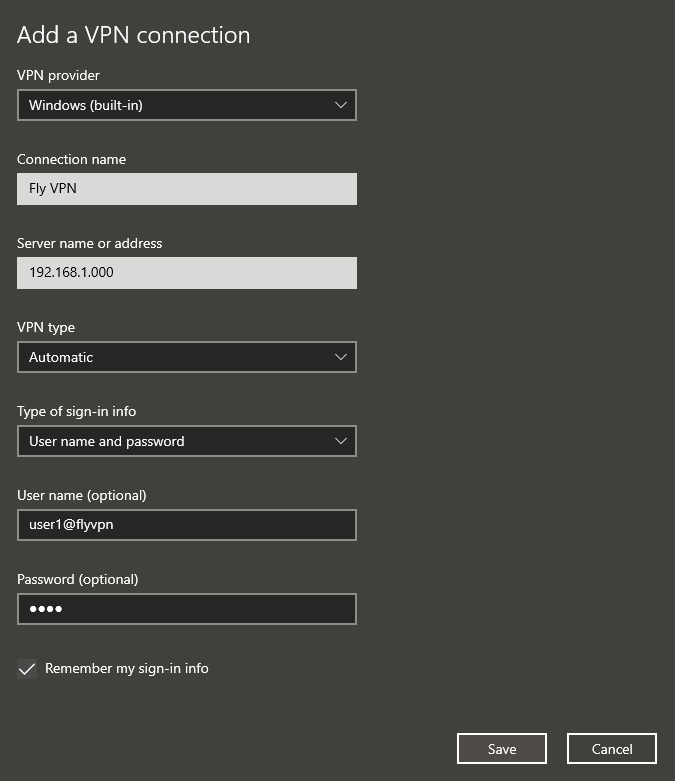
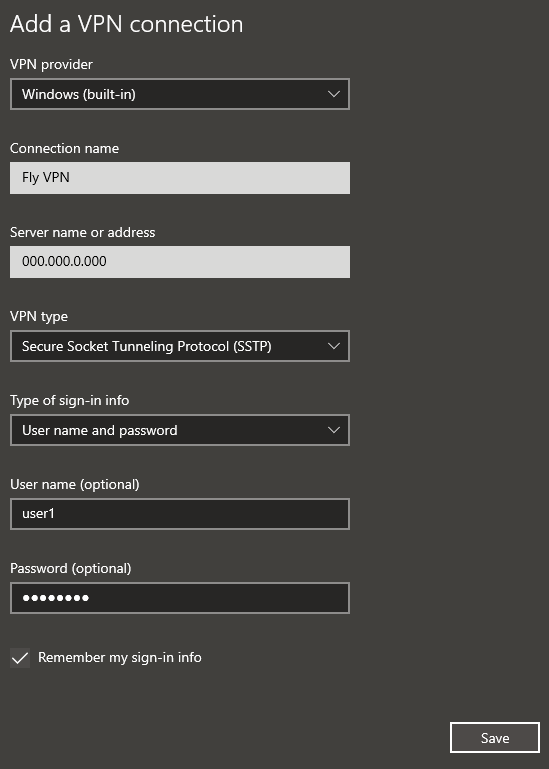
final commit

diff --git a/README.md b/README.md
@@ -8,7 +8,26 @@ default_: report
 ---
 ## A SoftEther SSTP VPN Server, hosted by Fly.io
 
-This is a scale-to-zero VPN server that Windows' built-in VPN client can connect to by IP address + username + password.
+### Notice
+
+This project is cancelled because the SoftEther VPN doesn't work within the Fly.io host environment.
+The VPN works correctly when hosted by my laptop; my desktop is able to connect through the vpn when using `nix run .#start`.
+However, when the container is hosted by Fly.io through `nix run .#deploy`, while some connections work, many internet functions fail to work through the VPN.
+Some computers refuse to connect to the deployed Fly.io server at all.
+The container reports the following warnings while running:
+
+```txt
+Warning: Extension connmark revision 0 not supported, missing kernel module?
+iptables: No chain/target/match by that name.
+```
+
+These might imply that the Fly.io server doesn't offer the right privileges to host a VPN in the way Softether does; or, it doesn't have the right kernel support.
+Either way, it's enough to tell me that Softether SSTP is not a match for Fly.io.
+
+This is (supposed to be) a scale-to-zero VPN server that Windows' built-in VPN client can connect to by IP address + username + password.
+It works when hosted in a Podman or Docker container in any general purpose linux server.
+
+**This project is abandoned. If you are looking for a way to play LAN games with your friends, I recommend using [Radmin VPN](https://www.radmin-vpn.com/).**
 
 Questions? [Read the FAQ](#faq).
 
@@ -29,15 +48,15 @@ Now you are ready to configure the server!
 
 #### Configure Server
 
-The VPN server must be configured by a secret file named `.env`. Modify the `.env` file in the root directory of this repository, and declare the following settings:
+The VPN server must be configured by a secret file named `.env`. Create the file named `.env` in the root directory of this repository, and declare the following settings:
 
 `.env`
 
 ```sh
 SOFTETHER_PASS="password"
-USER_PASS_PAIRS="user1:password user2:password user3:password"
-HUB_NAME="flyvpn"
 HUB_PASS="password"
+IPSEC_PSK="notsecret"
+USER_PASS_PAIRS="user1:password user2:password user3:password"
 ```
 
 Now you are ready to deploy the server!
@@ -47,7 +66,6 @@ Now you are ready to deploy the server!
 - [Make a Fly.io account](https://fly.io/dashboard). Link your payment method in the account.
 - Run `nix develop` to open a shell with access to development tools (like `flyctl`).
 - Run `flyctl auth login`
-- Run `touch .env` to make file named `.env`
 - Determine your `<unique_app_name>`.
 - Set `app = '<unique_app_name>'` in `fly.toml`.
 - Add line `FLY_APP_NAME="<unique_app_name>"` to `.env`.
@@ -59,18 +77,20 @@ Now you are ready to deploy the server!
 
 #### Update a Client Certificate (Windows 10)
 
-- Start the server.
-- Find the location of the `.crt` file provided by the server CLI on startup. It is at `/var/lib/softether/vpnserver/cn.txt` by default.
+- Run `nix develop` to open a shell with access to development tools (like `flyctl`).
+- Run `flyctl logs`.
+- Start the server init script.
+- Copy the certificate text from `/usr/vpnserver/store/server.crt` into a file `server.crt`.
 - Download the `.crt` file to the client's Windows 10 computer.
 - Double click the `.crt` file to open it with Crypto Shell Extensions.
 - Click `Install Certificate...`.
 - Select `Local Machine`.
 - Click `Next`.
-- Click `Yes`.
+- Click `Yes` to give administrator privileges.
 - Select `Place all certificates in the following store`.
 - Click `Browse...`.
 - Select `Trusted Root Certification Authorities`.
-- Click `OK` to give Administrator Privileges.
+- Click `OK`.
 - Click `Next`.
 - Click `Finish`.
 
@@ -83,9 +103,10 @@ Now you are ready to deploy the server!
   ![Screenshot of an example VPN connection.](docs/screenshots/windows-10-add-a-vpn-connection.png)
 - Select `Windows (built-in)` under "VPN provider".
 - Name the VPN under "Connection name".
-- Put the common name (CN) of the server under "Server name or address". The common name of your server is given by the server on startup alongside the `.crt` file. It will be either an IP address or a DNS URL.
+- Put the common name (cn) of the server under "Server name or address". The common name of your server is given by the server when the server init script is run alongside the `.crt` file. It will be either an IP address or a DNS URL.
+- Select `Secure Socket Tunneling Protocol (SSTP)` under "VPN type".
 - Write your `<username>` under "User name".
-- Write your `<password>@flyvpn` under "Password".
+- Write your `<password>` under "Password".
 - Click `Save`.
 - Click the VPN connection you just made and select `Connect`.
 
@@ -98,18 +119,15 @@ See [#### Install Server](#install-server).
 |:--- |:--- |
 | `nix run`                   | Alias for `.#help` |
 | `nix run .#help`            | Print this helpful information |
-| `nix run .#start`           | Alias for `.#start native` |
-| `nix run .#start native`    | Start the server natively on your machine |
-| `nix run .#start container` | Start the server in a container on your machine |
-| `nix run .#deploy`          | Alias for `.#deploy all` |
-| `nix run .#deploy server`   | Deploy just the server to Fly.io |
-| `nix run .#deploy secrets`  | Deploy just the secrets to Fly.io |
-| `nix run .#deploy all`      | Deploy the server & secrets to Fly.io |
+| `nix run .#start`           | Start the server in a container on your machine |
+| `nix run .#deploy`          | Deploy the server & secrets to Fly.io |
 | `nix develop`               | Start a dev shell with all project dependencies installed |
 
 ### FAQ
 
 #### What is this for?
+
+**This project is abandoned. If you are looking for a way to play LAN games with your friends, I recommend using [Radmin VPN](https://www.radmin-vpn.com/).**
 
 You can have all your friends connect to this VPN simultaneously.
 When everyone's connected, LAN multiplayer games should allow you to play together.
@@ -154,38 +172,3 @@ We are not currently receiving donations.
 There is no way to fund the project at this time, but if enough interested is generated, a process for donations will be provided.
 
 Feel free to fork, just be sure to [read the license](./LICENSE.md).
-
-### Potential TODO Tasks
-
-1
-
-I should perform a refactor to hide secrets on the production server.
-Right now, those secrets are baked into the Docker image and are exposed in the nix store.
-Rather than baking them into environment variables in the server image, the secrets should be provided by the environment.
-So the `.#start` script should load .env itself, and pass that environment to the running executable.
-
-- For `.#start native`, this is passed directly with Bash.
-- For `.#start container`, this is passed through podman.
-- For `.#deploy`, this is passed through Fly Secrets.
-
-This would enable secrets like USER_PASS_PAIRS to be updated independently of the server image.
-(As it stands, when USER_PASS_PAIRS is updated, all clients must update their certs and that is inconvenient)
-This would also enable me to add `.env` to `.gitignore` again.
-This would also enable me to remove `env.nix`.
-
-2
-
-Add the following.
-
-- echo "  .#deploy | Deploy the server and secrets to Fly.io"
-- echo "  .#deploy server | Deploy the server to Fly.io"
-- echo "  .#deploy secrets | Deploy the secrets to Fly.io"
-
-3
-
-consider generating fly.toml using Nix like https://github.com/LutrisEng/nix-fly-template/blob/main/fly.nix
-this refactor could enable us to pull in FLY_APP_NAME from .env automatically
-
-4
-
-- PRODUCTION_CN should DEFAULT TO $FLY_APP_NAME.fly.dev

diff --git a/todo.md b/todo.md
@@ -11,20 +11,21 @@ default_: report
 ## Goals
 
 - +1.2.0 | Remote Config Script
-- +1.1.0 | Deploy Script
+- +1.1.0 | Initial Deploy Script
 - +1.0.0 | Working VPN + Tested LAN Gaming + Manual Deploy + Manual Config
 
 ## Milestones
 
-- [ ] (E) Announce release for +1.0.0 @docs
+- [ ] (A) Announce release for +1.0.0 @docs
 - [ ] (B) Document how to play each game in `README.md` @docs
-- [ ] (D) Verify LAN gaming works with Fly.io for Castle Crusaders @test
-- [ ] (D) Verify LAN gaming works with Fly.io for Age of Empires @test
+- [ ] (D) Verify LAN gaming works with Fly.io for Age of Empires II @test
 - [ ] (C) Verify LAN gaming works with Fly.io for Diablo II @test
 - [ ] (C) Verify LAN gaming works with Fly.io for Minecraft @test
 - [ ] (B) Re-write `README.md` and `nix run .#help` to reflect new usage @docs @code
+- [ ] (E) Generate fly.toml using Nix like at https://github.com/LutrisEng/nix-fly-template/blob/main/fly.nix @code
 - [ ] (A) Draft `nix run .#deploy` scripts `server`, `secrets`, and `all` @code
 - [ ] (A) Verify VPN works with Fly.io using Windows VPN client @test
+- [x] (B) 2025-01-28 Re-write `README.md` and `nix run .#help` to reflect new usage @docs @code
 - [x] (A) 2025-01-24 Setup volumes to persist the server configuration @code
 - [x] (A) 2025-01-23 Fix `nix run .#deploy`for new image @code
 - [x] (A) 2025-01-23 Verify VPN works with `nix run .#start` using Windows VPN client @test
